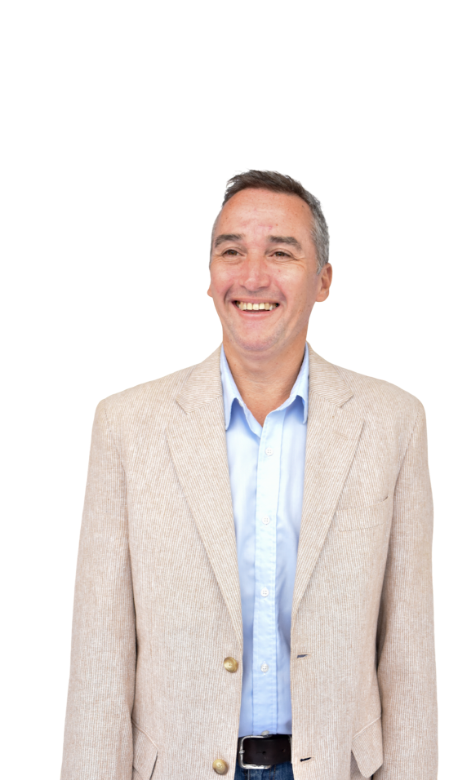
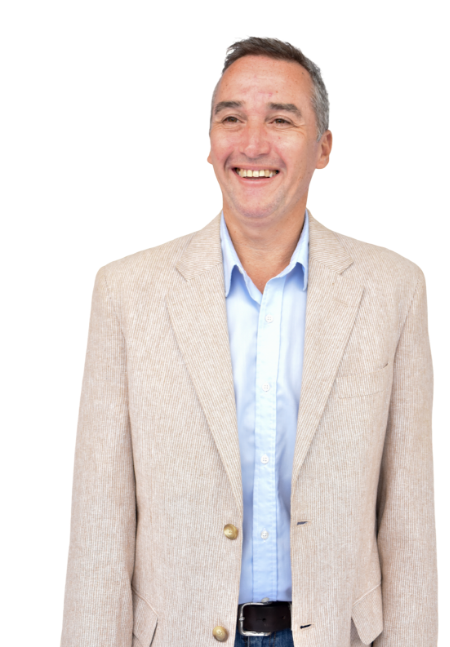
cambios santi

diff --git a/css/main.css b/css/main.css
@@ -2023,6 +2023,17 @@ h1, h2, h3, h4, h5, h6 {
   .atf {
     margin-top: -183px!important;
 }
+.callto-area {
+  text-align: center;
+  background: url(/img/equipo.jpg) 0% 17%!important;
+  background-size: cover!important;
+  background-repeat: no-repeat!important;
+  padding: 158px;
+}
+.header-img {
+  right: 20vh!important;
+  height: 80vh!important;
+}
 }
 /*--------------------------------------------------------------
 # Navigation Menu
@@ -2446,7 +2457,7 @@ body.mobile-nav-active #mobile-nav-toggle {
 }
 
 .header-img {
-  right: 0;
+  right: 15vh;
   position: absolute;
 }
 
